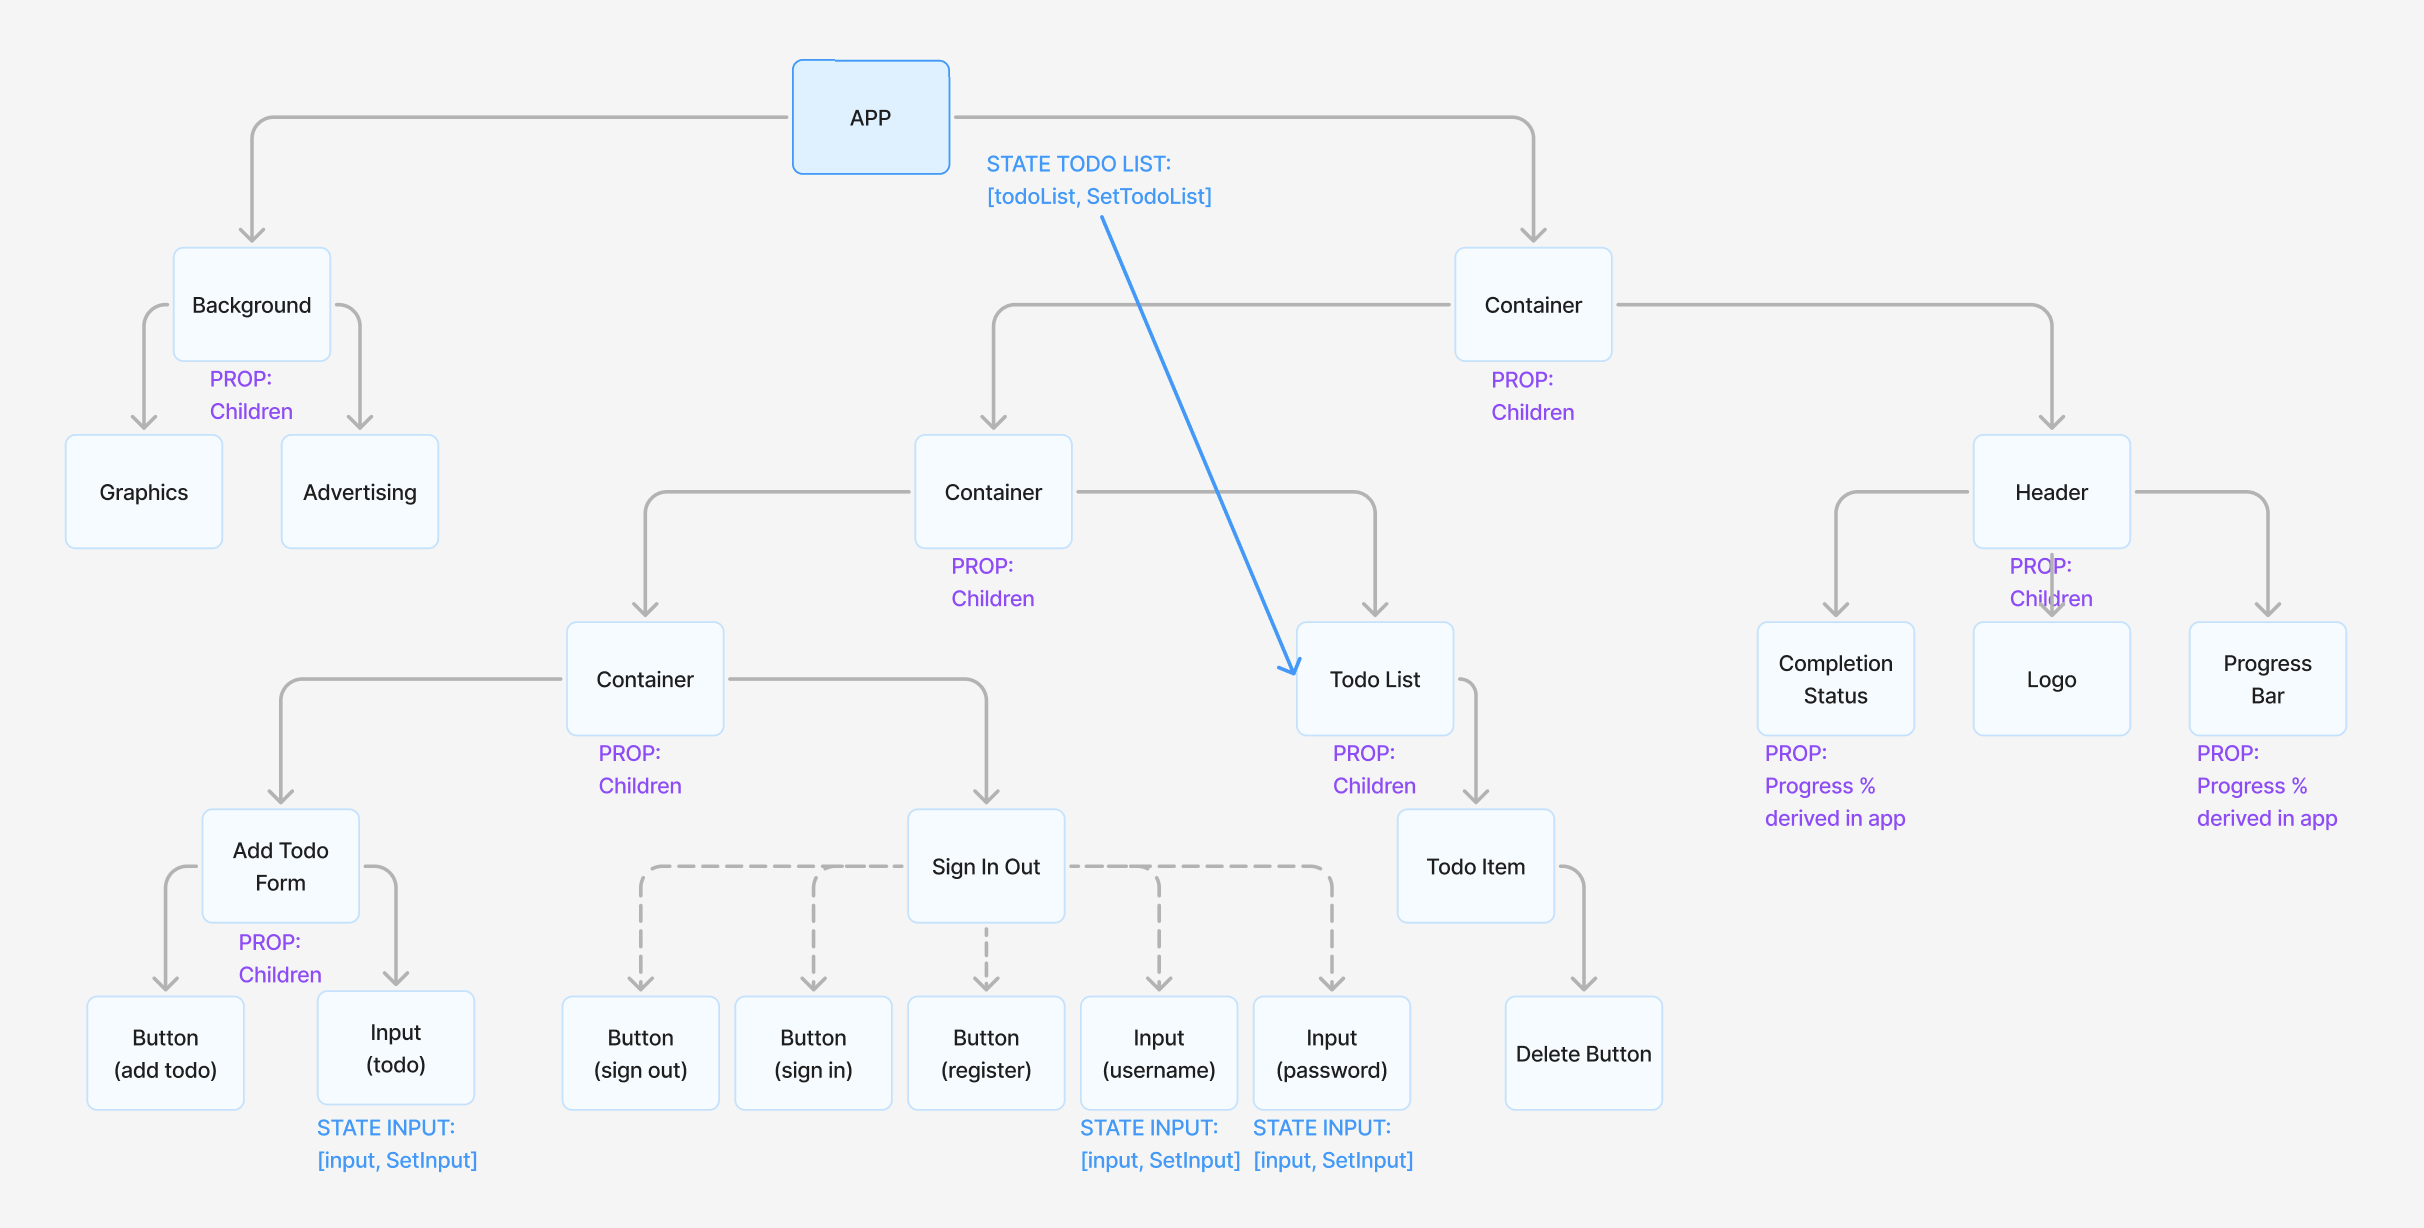
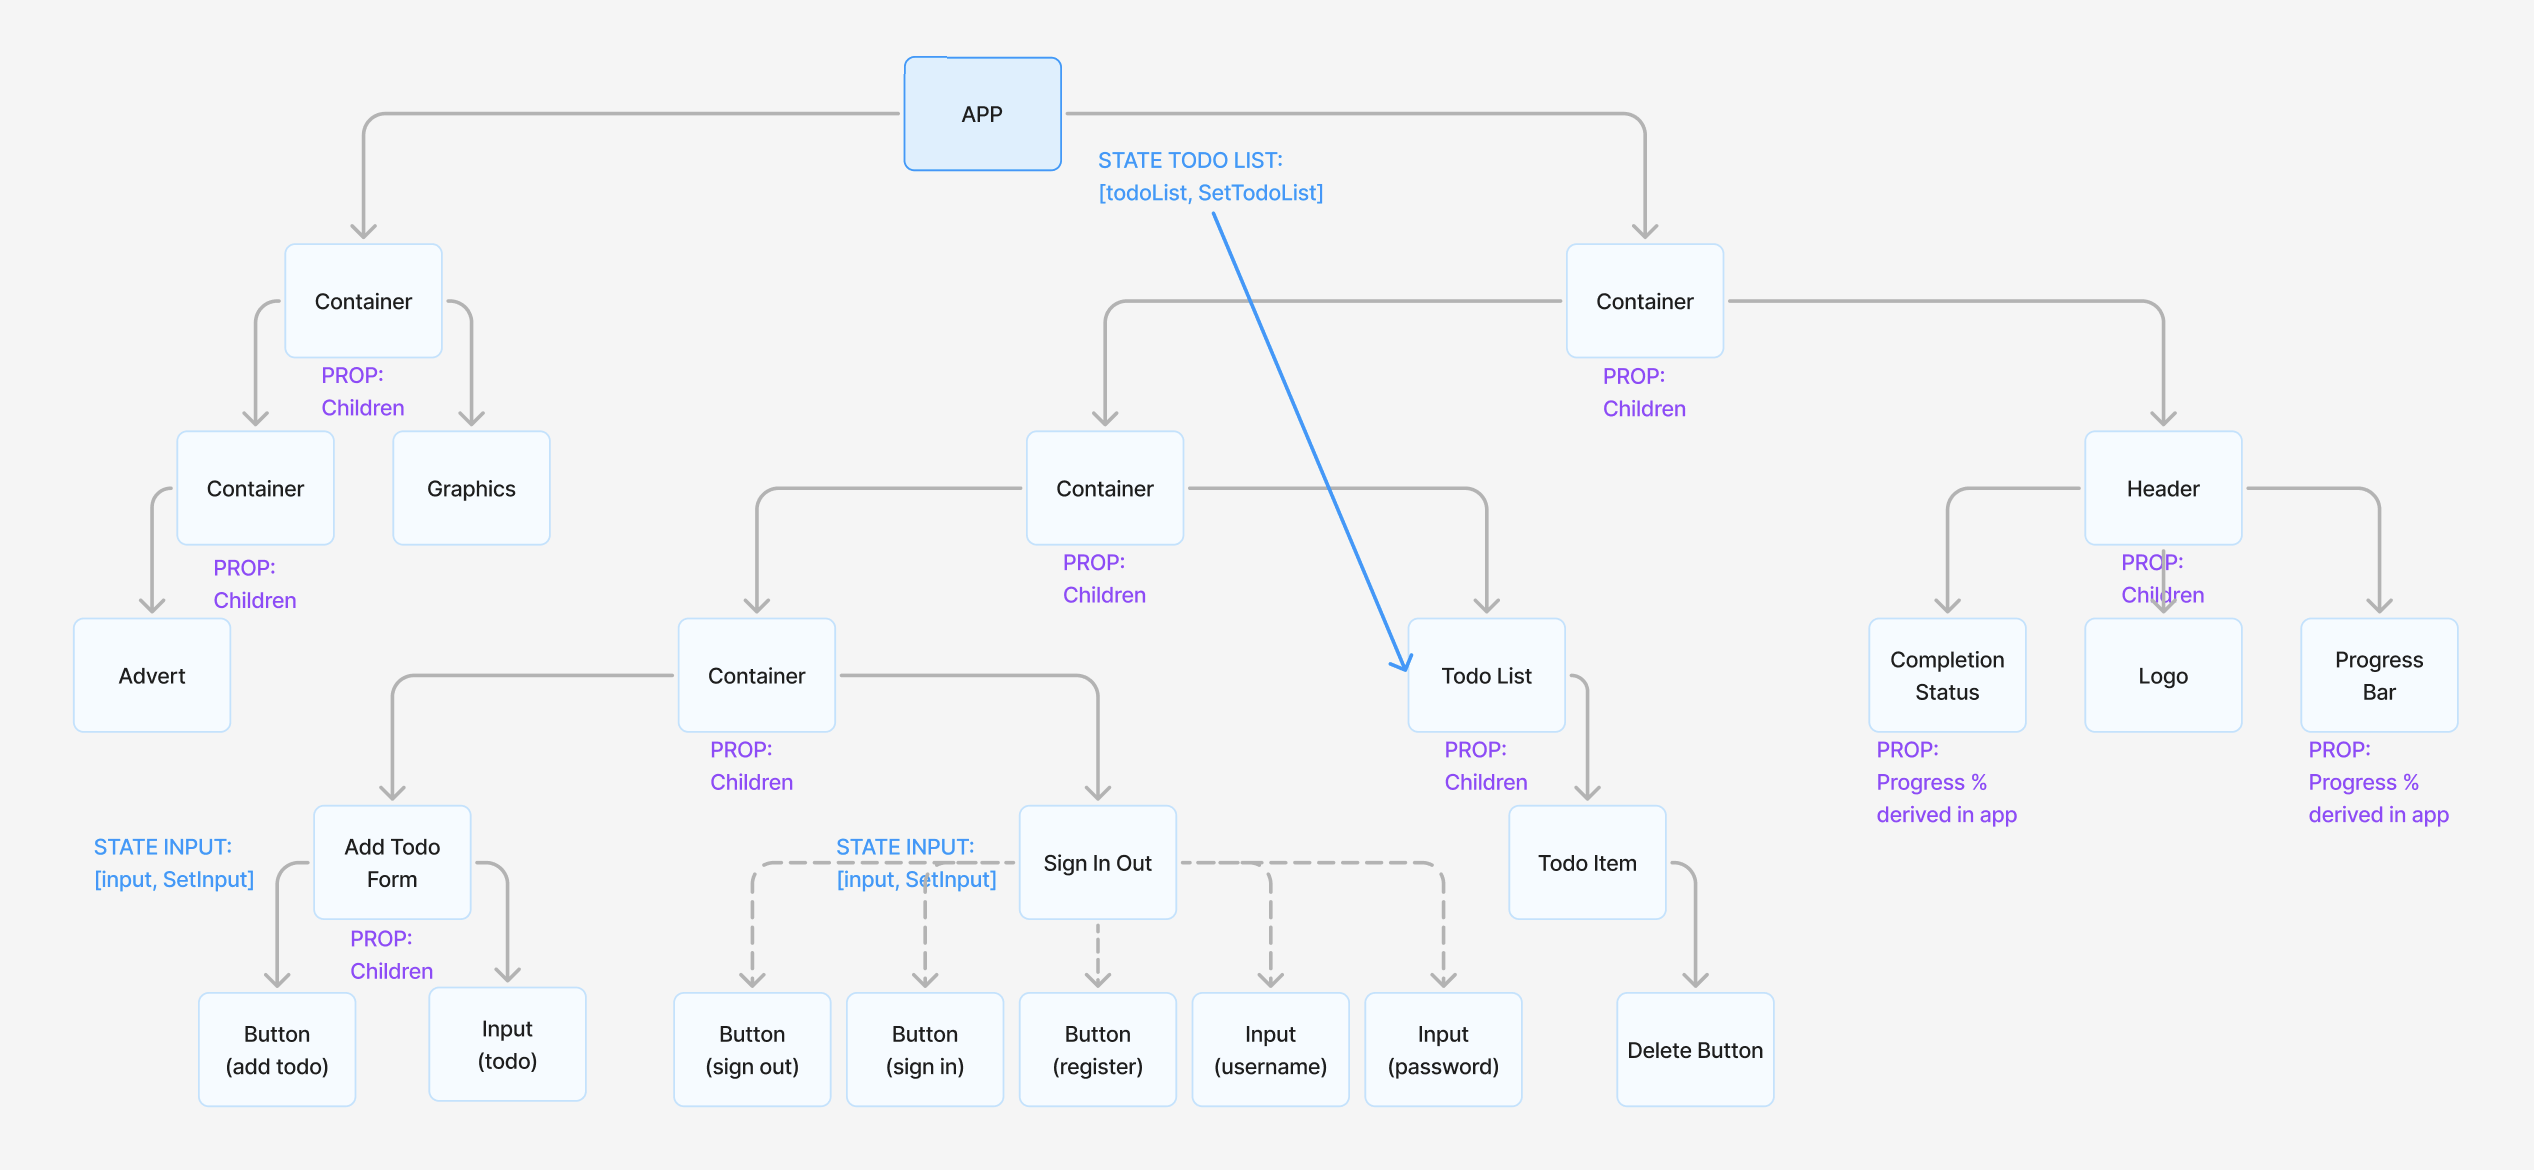
update component tree

diff --git a/todo.md b/todo.md
@@ -1,4 +1,4 @@
-- [ ] remove background component from diagram, replace with container
-- [ ] replace advertising with container
-- [ ] add advert component to diagram
+- [X] remove background component from diagram, replace with container
+- [X] replace advertising with container
+- [X] add advert component to diagram
 - [ ] move controlled component state into form
